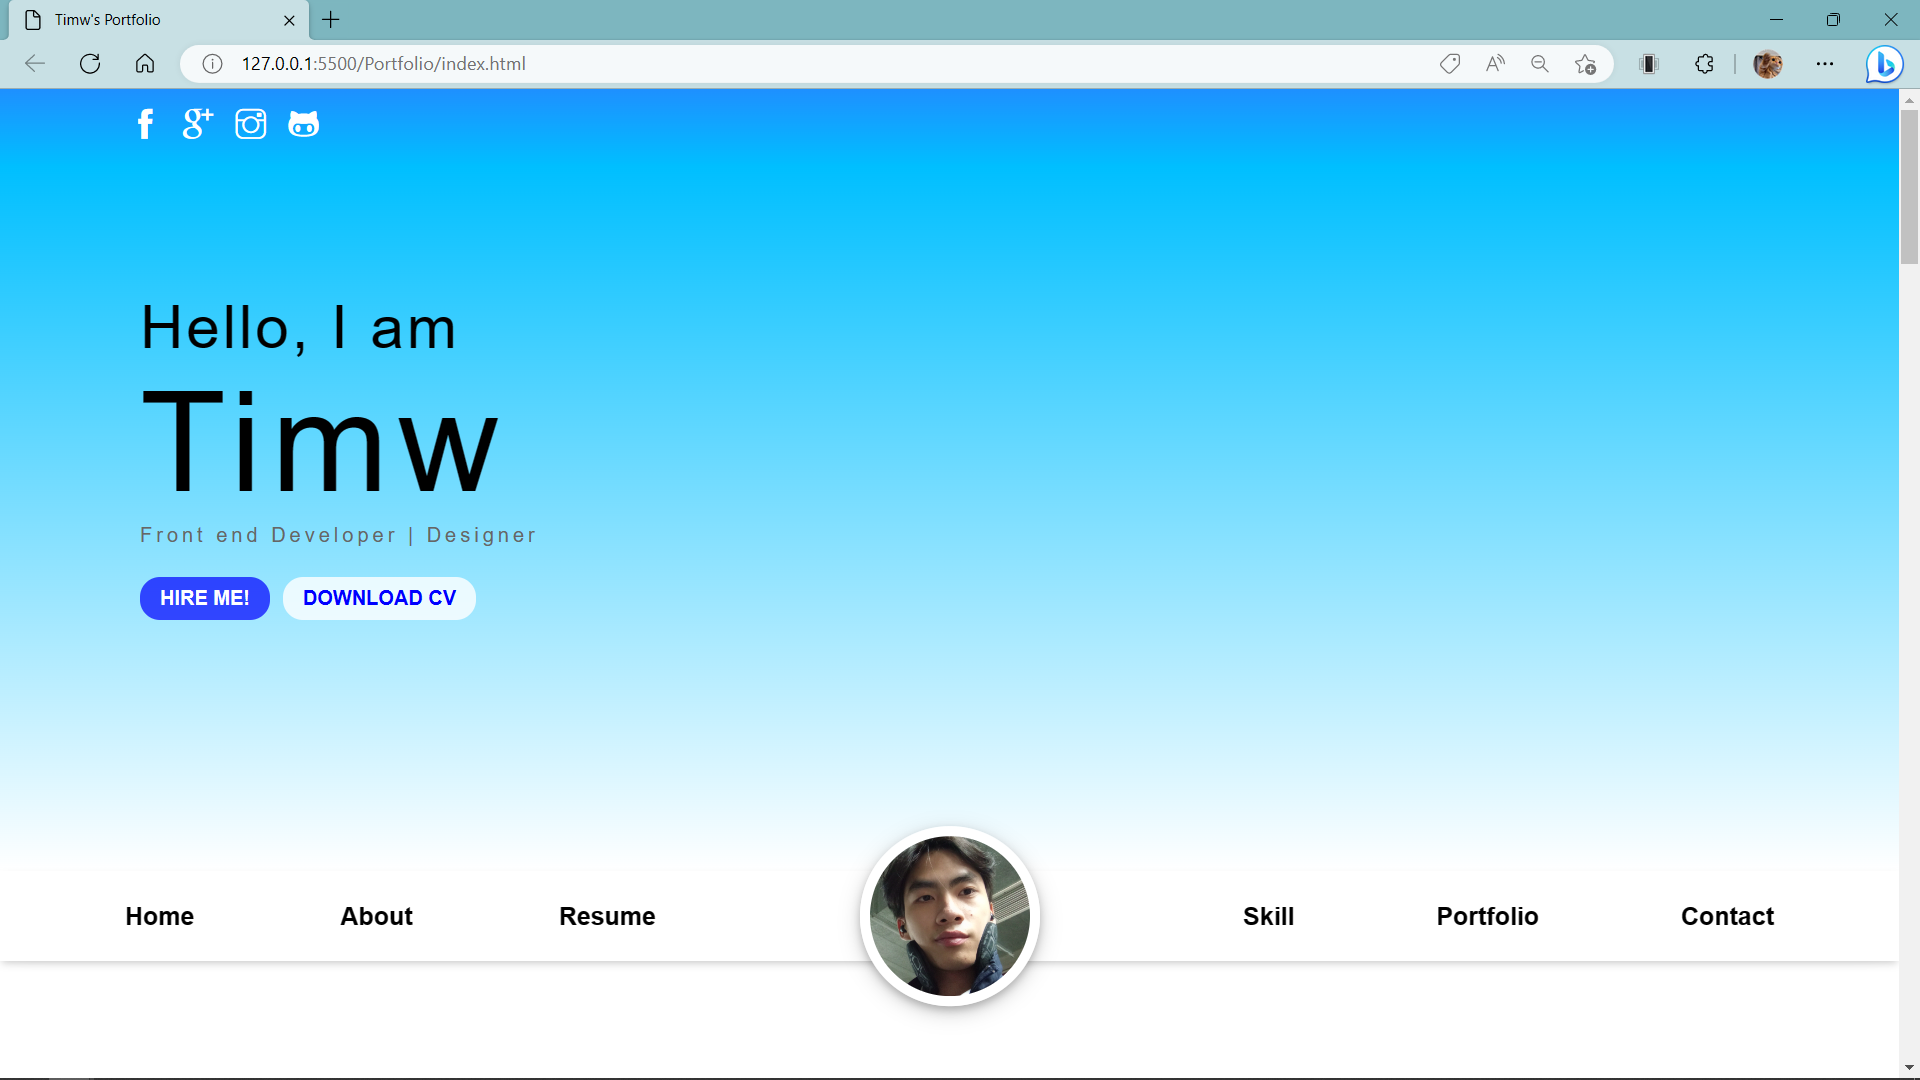
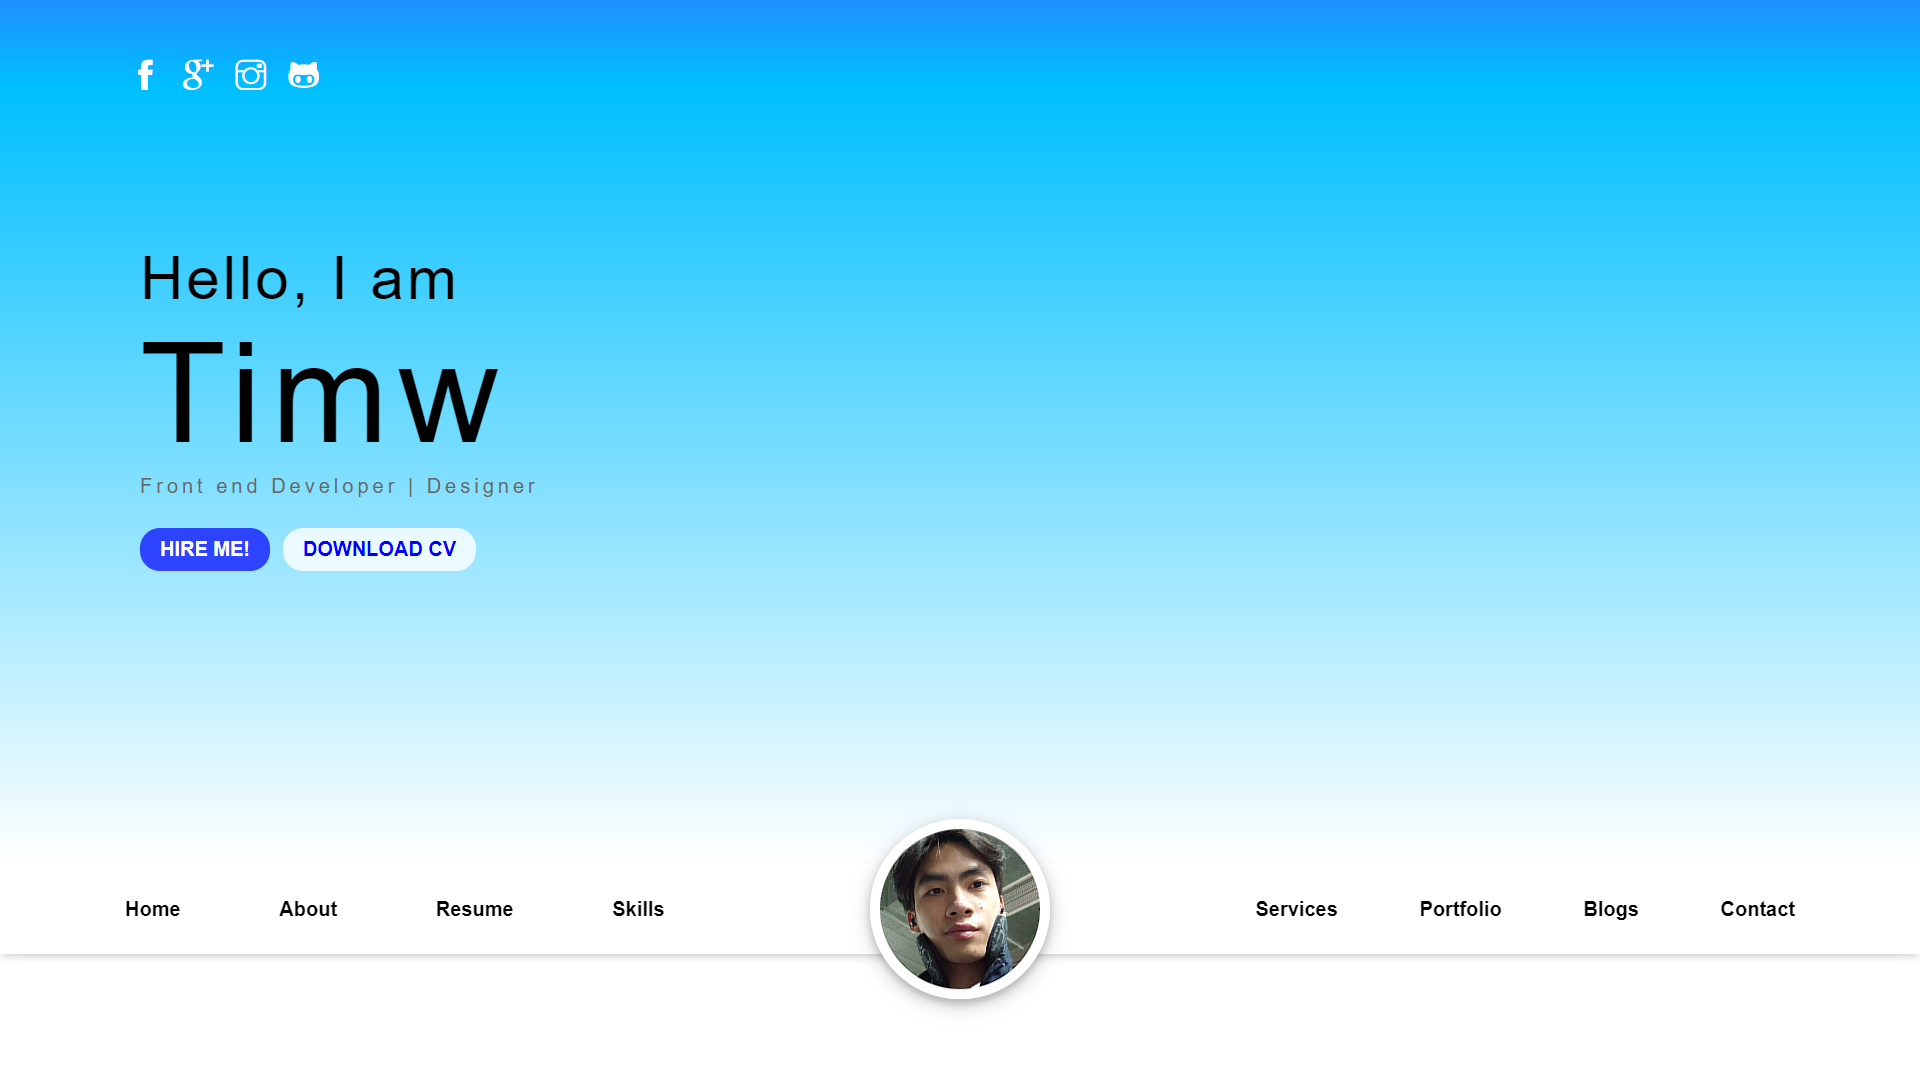
update v0.2 protfolio

diff --git a/index.html b/index.html
@@ -5,7 +5,7 @@
     <meta http-equiv="X-UA-Compatible" content="IE=edge" />
     <meta name="viewport" content="width=device-width, initial-scale=1.0" />
     <title>Timw's Portfolio</title>
-    <link rel="stylesheet" href="./assets/css/style.css" />
+    <link rel="stylesheet" href="./assets/css/default.css" />
     <link rel="stylesheet" href="./assets/vendors/themify-icons/css/themify-icons.css" />
 
   </head>
@@ -49,7 +49,6 @@
         </div>
       </div>
       <div id="nav-right">
-        <!-- <a href="#service">Service</a> -->
         <a href="#services">Services</a>
         <a href="#portfolio">Portfolio</a>
         <a href="#blogs">Blogs</a>
@@ -354,40 +353,74 @@
       </div>
       <div id="portfolio-containers">
         <div class="all web-dev web-des">
-          <a href="linktoproduct">
-            <img class="" src="./assets/imgs/portfolio.png" alt="portfolio-1">
+          <div class="portfolio-imgs">
+          <a class="img-bg" href="https://h-timw.github.io/city.weather/" target="_bank">
+            <img src="./assets/imgs/weather-app.png" alt="portfolio-1">
           </a>
-          <p class="portfolio-description">Watch with Pomodoro and many mode</p>
+          <p class="portfolio-description-overlay">
+            Idea:<br>Day 9 - WeatherApp<br>30Days Challenge HTML CSS JS
+            <a href="https://h-timw.github.io/city.weather/" target="_bank">See&nbspmore</a>
+          </p>
+        </div>
+          <p class="portfolio-description">
+            Weather App
+          </p>
         </div>
         <div class="all web-dev">
-          <a href="linktoproduct">
-            <img class="" src="./assets/imgs/portfolio.png" alt="portfolio-1">
-          </a>
-          <p class="portfolio-description">The Band W3school-template</p>
+          <div class="portfolio-imgs">
+            <a class="img-bg" href="https://h-timw.github.io/city.weather/" target="_bank">
+              <img src="./assets/imgs/weather-app.png" alt="portfolio-1">
+            </a>
+            <p class="portfolio-description-overlay">
+              Idea:<br>Day 9 - WeatherApp<br>30Days Challenge HTML CSS JS
+              <a href="https://h-timw.github.io/city.weather/" target="_bank">See&nbspmore</a>
+            </p>
+          </div>
+            <p class="portfolio-description">
+              Weather App
+            </p>
         </div>
         <div class="all web-dev">
-          <a href="linktoproduct">
-            <img class="" src="./assets/imgs/portfolio.png" alt="portfolio-1">
-          </a>
-          <p class="portfolio-description">The Architech W3school-template</p>
-        </div>
-        <div class="all web-dev">
-          <a href="linktoproduct">
-            <img class="" src="./assets/imgs/portfolio.png" alt="portfolio-1">
-          </a>
-          <p class="portfolio-description">Challenge: 30 days realize HTML, CSS, Javascript projects - Nodemy</p>
+          <div class="portfolio-imgs">
+            <a class="img-bg" href="https://h-timw.github.io/city.weather/" target="_bank">
+              <img src="./assets/imgs/weather-app.png" alt="portfolio-1">
+            </a>
+            <p class="portfolio-description-overlay">
+              Idea:<br>Day 9 - WeatherApp<br>30Days Challenge HTML CSS JS
+              <a href="https://h-timw.github.io/city.weather/" target="_bank">See&nbspmore</a>
+            </p>
+          </div>
+            <p class="portfolio-description">
+              Weather App
+            </p>
         </div>
         <div class="all web-des web-dev">
-          <a href="linktoproduct">
-            <img class="" src="./assets/imgs/portfolio.png" alt="portfolio-1">
-          </a>
-          <p class="portfolio-description">Timw Portfolio</p>
+          <div class="portfolio-imgs">
+            <a class="img-bg" href="https://h-timw.github.io/city.weather/" target="_bank">
+              <img src="./assets/imgs/weather-app.png" alt="portfolio-1">
+            </a>
+            <p class="portfolio-description-overlay">
+              Idea:<br>Day 9 - WeatherApp<br>30Days Challenge HTML CSS JS
+              <a href="https://h-timw.github.io/city.weather/" target="_bank">See&nbspmore</a>
+            </p>
+          </div>
+            <p class="portfolio-description">
+              Weather App
+            </p>
         </div>
         <div class="all app-dev">
-          <a href="linktoproduct">
-            <img class="" src="./assets/imgs/portfolio.png" alt="portfolio-1">
-          </a>
-          <p class="portfolio-description">Updating</p>
+          <div class="portfolio-imgs">
+            <a class="img-bg" href="https://h-timw.github.io/city.weather/" target="_bank">
+              <img src="./assets/imgs/weather-app.png" alt="portfolio-1">
+            </a>
+            <p class="portfolio-description-overlay">
+              Idea:<br>Day 9 - WeatherApp<br>30Days Challenge HTML CSS JS
+              <a href="https://h-timw.github.io/city.weather/" target="_bank">See&nbspmore</a>
+            </p>
+          </div>
+            <p class="portfolio-description">
+              Weather App
+            </p>
         </div>
       </div>
     </section>
@@ -412,7 +445,10 @@
         <div class="blog-content daily">
           <img class="blog-content-img" src="./assets/imgs/Better habits - Gymaholic Fitness App.jfif" alt="better habits better life">
           <h1 class="blog-title">1% daily improvement</h1>
-          <h3 class="blog-writer">Post by: <a href="">Timw</a></h3>
+          <h3 class="blog-writer">Post by: <a href="#">Timw</a></h3>
+          <div class="blog-content-overlay">
+
+          </div>
         </div>
       </div>
     </section>

diff --git a/assets/css/default.css b/assets/css/default.css
@@ -1,7 +1,7 @@
 :root {
   --avt-size: 18rem;
   --blue: rgb(0, 0, 255);
-  --light-blue: deepskyblue;
+  --light-blue: rgb(0, 191, 255);
   --normal-blue: dodgerblue;
   --light: white;
   --dark: black;
@@ -71,14 +71,21 @@ html {
   font-size: 62.5%;
   font-family: "Dosis", sans-serif;
 }
-
-body {position: relative;}
+body::-webkit-scrollbar {
+  display: none;
+  /* Hide scrollbar for Chrome, Safari and Opera */
+}
+body {position: relative;
+  -ms-overflow-style: none;  /* IE and Edge */
+  scrollbar-width: none;  /* Firefox */
+  /* Hide scrollbar for IE, Edge and Firefox */
+}
 header {
   background-image: linear-gradient(to top, white 0%, deepskyblue 90%,  dodgerblue 100%);
   background-repeat: no-repeat;
-  height: 79vh;
+  height: 80vh;
   min-height: 40rem; /*Đảm bảo nav không bị co lên qua nhieu khi có extension/ dev tool làm ảnh hưởng chiều dọc màn hình*/
-  padding-top: 2rem;
+  padding-top: 6rem;
 }
 header .icon-contacts {margin-left: 12rem;}
 header .icon-contacts a {
@@ -193,6 +200,7 @@ header .icon-contacts a:visited {color: var(--light);}
 section {
   padding-top: 10rem;
   width: 90%;
+  margin: auto;
 }
 hr {
   background-color: var(--blue);
@@ -200,7 +208,6 @@ hr {
 }
   /* first-section */
 #about {
-  margin: auto;
   margin-bottom: 0 !important;}
 #about hr, #resume hr {
   width: 7rem;
@@ -382,16 +389,16 @@ dd {
   transform: translate(0,15rem);
 }
 .skill-detail:hover .skill-imgs {
-  transform: translate(0,-4rem);
+  transform: translate(0,-6rem);
   transition: all 0.5s ease-in-out;
 }
 .skill-detail:hover .skill-description {
   margin: auto;
-  transform: translateZ(-15rem);
+  transform: translate(0,-3rem);
   transition: all 0.5s ease-in-out;
 }
 .skill-detail:hover h3 {
-  transform: translate(0,-10rem);
+  transform: translate(0,-15rem);
   visibility: hidden;
   transition: all 0.5s ease-in-out;
 }
@@ -436,7 +443,6 @@ dd {
   flex-direction: row;
   justify-content: center;
   align-items: center;
-  
 }
 .filter-link {
   background-color: var(--light);
@@ -456,7 +462,7 @@ dd {
   display: flex;
   flex-direction: row;
   justify-content: space-evenly;
-  align-items: center;
+  align-items: flex-start;
   flex-wrap: wrap;
 }
 .portfolio-description {
@@ -465,6 +471,10 @@ dd {
   width: 70%;
   margin: auto;
   font-weight: bold;
+}
+.portfolio-description a {
+  text-decoration: underline;
+  color: var(--light-blue);
 }
 .all {
   width: 30%;
@@ -489,5 +499,47 @@ dd {
   width: 30%;
 }
 .blog-content-img {
-
+  height: 40rem;
+  object-fit: cover;
+  margin-bottom: 1rem;
+}
+.blog-title {
+  text-transform: capitalize;
+  padding: 1rem;
+}
+.blog-writer {
+  padding: 1rem;
+}
+.blog-writer a {
+  padding: 0 1rem;
+  color: black;
+  font-weight: bold;
+}
+.portfolio-imgs {
+  position: relative;
+  text-align: center;
+  transition: all 0.5s !important;
+}
+.portfolio-description-overlay {
+  font-size: 2rem;
+  letter-spacing: 1px;
+  color: var(--light);
+  background-color: rgba(0, 191, 255,0.8);
+  width: 70%;
+  height: 70%;
+  top: 50%;
+  left: 50%;
+  border-radius: 5px;
+  transform: scale(0);
+  display: none;
+  transition: all 2s !important;
+}
+.portfolio-imgs:hover .portfolio-description-overlay {
+  display: flex;
+  flex-direction: column;
+  justify-content: center;
+  align-items: center;
+  position: absolute;
+  transform: translate(-50%, -50%) scale(1);
+  transition: all 2s !important;
 }
